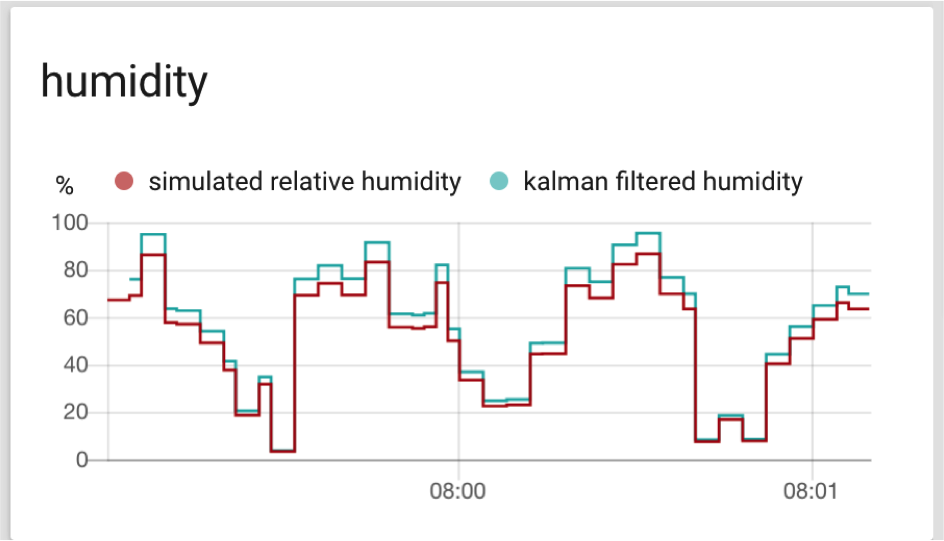
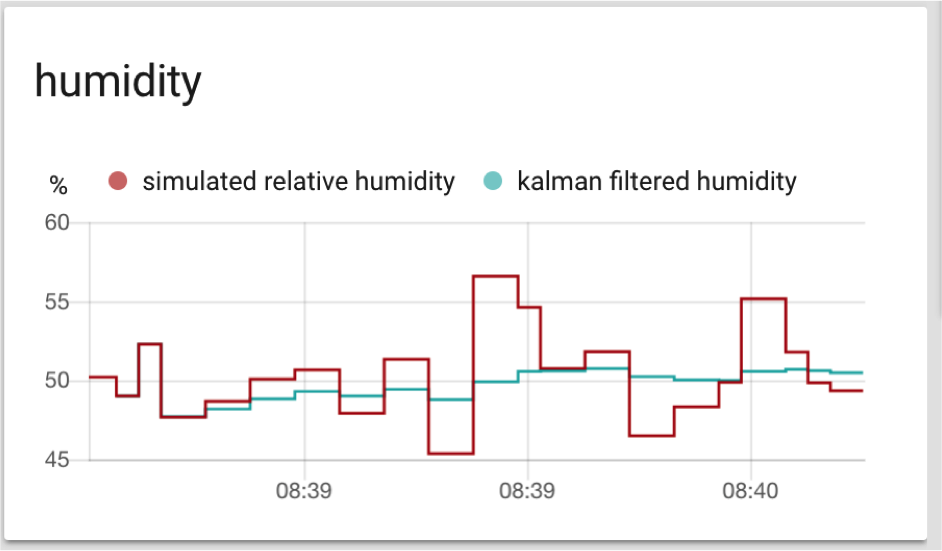
Working v0.1

Changed region(s): [[0.0, 0.0, 1.0, 1.0], [0.0616, 0.7394, 0.1231, 0.7985], [0.8312, 0.4732, 0.862, 0.5028]]

diff --git a/custom_components/sensor/filter.py b/custom_components/sensor/filter.py
@@ -355,7 +355,8 @@ class KalmanFilter(Filter):
         """Initialize Filter."""
         super().__init__(FILTER_NAME_OUTLIER, 1, precision, entity)
         self._process_var = sensitivity**2
-        self._measurement_var = measurement_std**2
+        self._measurement_std = measurement_std
+        self._measurement_var = None
         self._gaussian = namedtuple('Gaussian', ['mean', 'var'])
         self._x = None  # initial state, will init on first reading.
         self._process_model = self._gaussian(0., self._process_var)
@@ -383,6 +384,8 @@ class KalmanFilter(Filter):
             return new_state
         if self._x is None:  # Now establish the initial state of the filter.
             self._x = self._gaussian(self.states[-1].state, 1000.)
+            self._measurement_var = (
+                self._measurement_std * self.states[-1].state)**2
             return new_state
         # Now into regular operation pf preduct and update.
         self._prior = self._predict(self._x, self._process_model)
